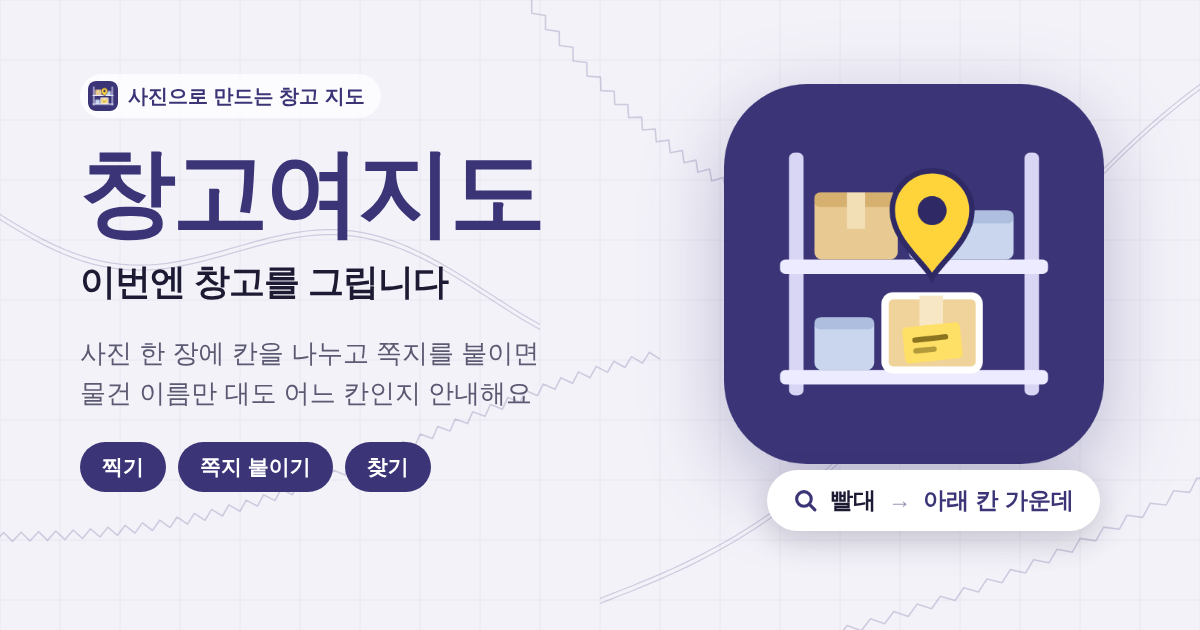
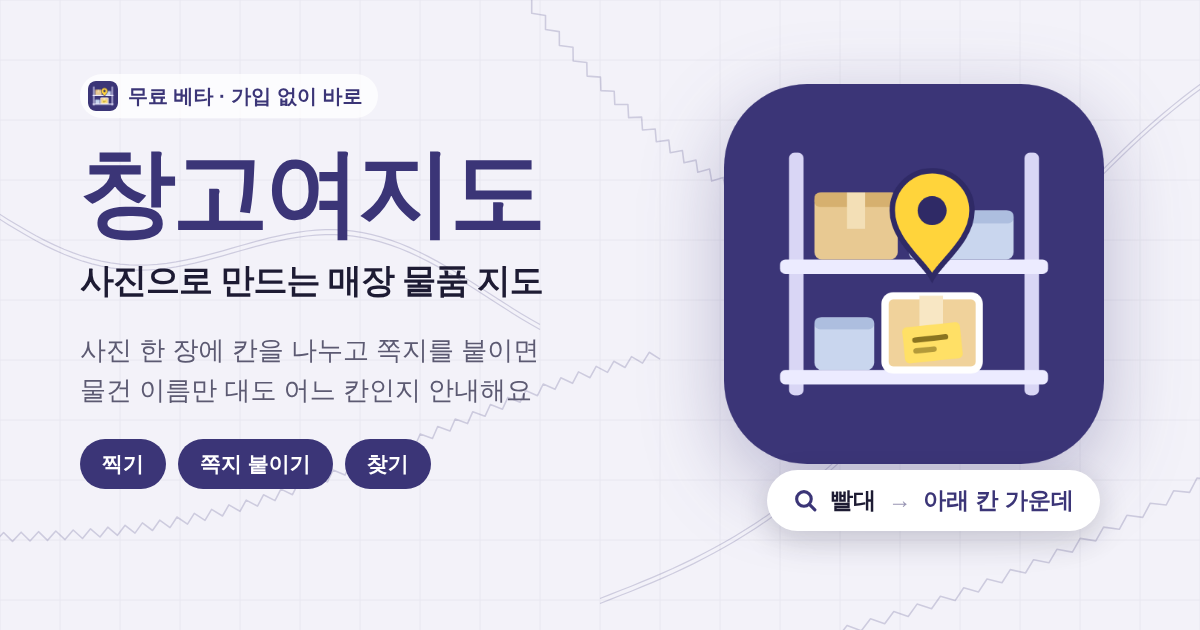
창고여지도 서브타이틀: '사진으로 만드는 매장 물품 지도'
- 첫 화면 이름 줄, 탭 제목, 공유 글·이미지, 설치 이름 모두 같은 서브타이틀
- '이번엔 창고를 그립니다'는 발표·홍보용 슬로건으로 남기고 화면에서는 뺌
- 공유 이미지 위 작은 줄은 '무료 베타 · 가입 없이 바로', og v=12

Claude-Session: https://claude.ai/code/session_01YLzJYaCSw3RBoKxVptiud9

diff --git a/index.html b/index.html
@@ -35,15 +35,15 @@
     <link rel="preconnect" href="https://cdn.jsdelivr.net" crossorigin>
     <link rel="stylesheet" href="https://cdn.jsdelivr.net/npm/@tabler/icons-webfont@latest/dist/tabler-icons.min.css" media="print" onload="this.media='all'">
     <noscript><link rel="stylesheet" href="https://cdn.jsdelivr.net/npm/@tabler/icons-webfont@latest/dist/tabler-icons.min.css"></noscript>
-    <title>창고여지도 - 이번엔 창고를 그립니다 · 사진 한 장으로 만드는 창고 지도</title>
+    <title>창고여지도 - 사진으로 만드는 매장 물품 지도</title>
     <!-- 카톡·SNS 링크 미리보기 (이미지 주소는 반드시 전체 주소여야 카톡이 읽는다) -->
     <meta name="description" content="선반 사진을 구역으로 나누고 물건을 적으면, 검색 한 번으로 위치를 찾아요. A4로 뽑아 벽에 붙일 수도 있어요.">
     <meta property="og:type" content="website">
     <meta property="og:site_name" content="창고여지도">
-    <meta property="og:title" content="창고여지도 - 이번엔 창고를 그립니다">
+    <meta property="og:title" content="창고여지도 - 사진으로 만드는 매장 물품 지도">
     <meta property="og:description" content="선반 사진을 구역으로 나누고 물건을 적으면, 검색 한 번으로 위치를 찾아요.">
     <meta property="og:url" content="https://trafficjourney.github.io/udigo/">
-    <meta property="og:image" content="https://trafficjourney.github.io/udigo/og-image.png?v=11">
+    <meta property="og:image" content="https://trafficjourney.github.io/udigo/og-image.png?v=12">
     <meta property="og:image:width" content="1200">
     <meta property="og:image:height" content="630">
     <meta property="og:image:alt" content="창고여지도: 사진 한 장이 창고 지도가 돼요. 남색 앱 아이콘 속 선반에서 찾는 상자에 노란 쪽지와 위치 핀, 아래에 '빨대 → 아래 칸 가운데' 검색 결과">
@@ -1647,7 +1647,7 @@
             </g>
             <g class="welcome-hero-pin"><path d="M119 36 a12 12 0 1 1 24 0 c0 9 -12 20 -12 20 s-12 -11 -12 -20z" fill="var(--accent)"/><circle cx="131" cy="35" r="4.5" fill="var(--on-accent)"/></g>
         </svg>
-        <div class="welcome-brand"><b data-app-name>창고여지도</b><span>이번엔 창고를 그립니다</span></div>
+        <div class="welcome-brand"><b data-app-name>창고여지도</b><span>사진으로 만드는 매장 물품 지도</span></div>
         <div class="welcome-beta"><span class="beta-pill"><i class="ti ti-flask"></i> 무료 베타 운영 중</span></div>
         <h2 class="welcome-title">사진 한 장이<br>창고 지도가 돼요</h2>
         <!-- 포스트잇과 다른 점: 선반 앞에 가지 않아도 물건 이름으로 자리를 찾는다 (넣을 때도, 꺼낼 때도) -->
